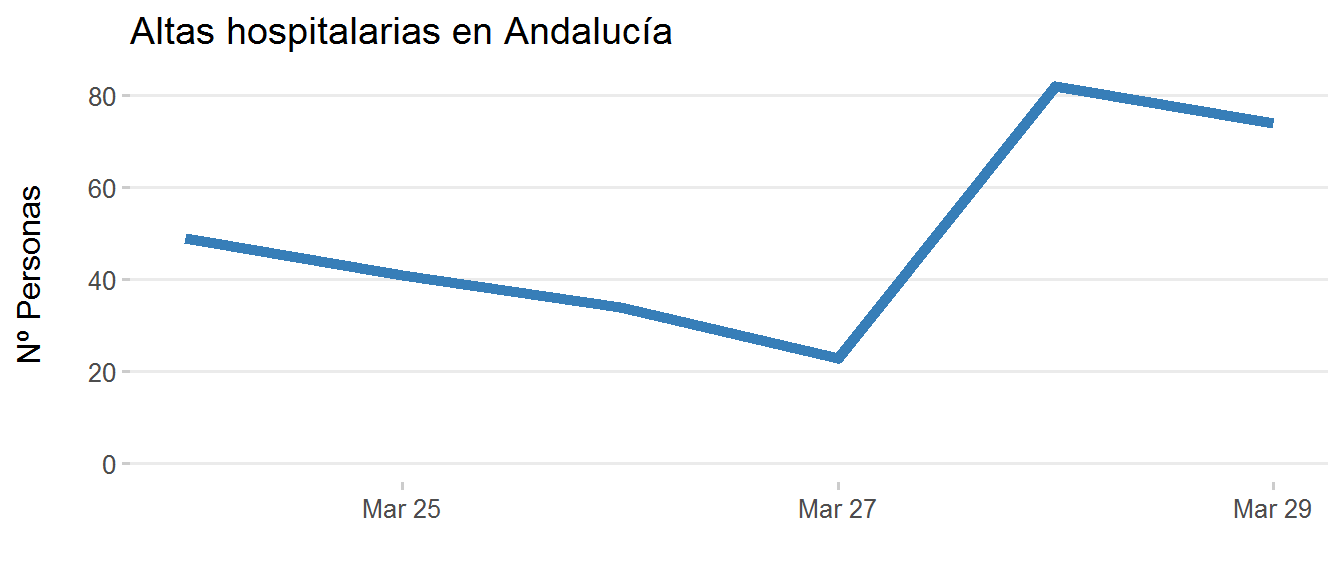
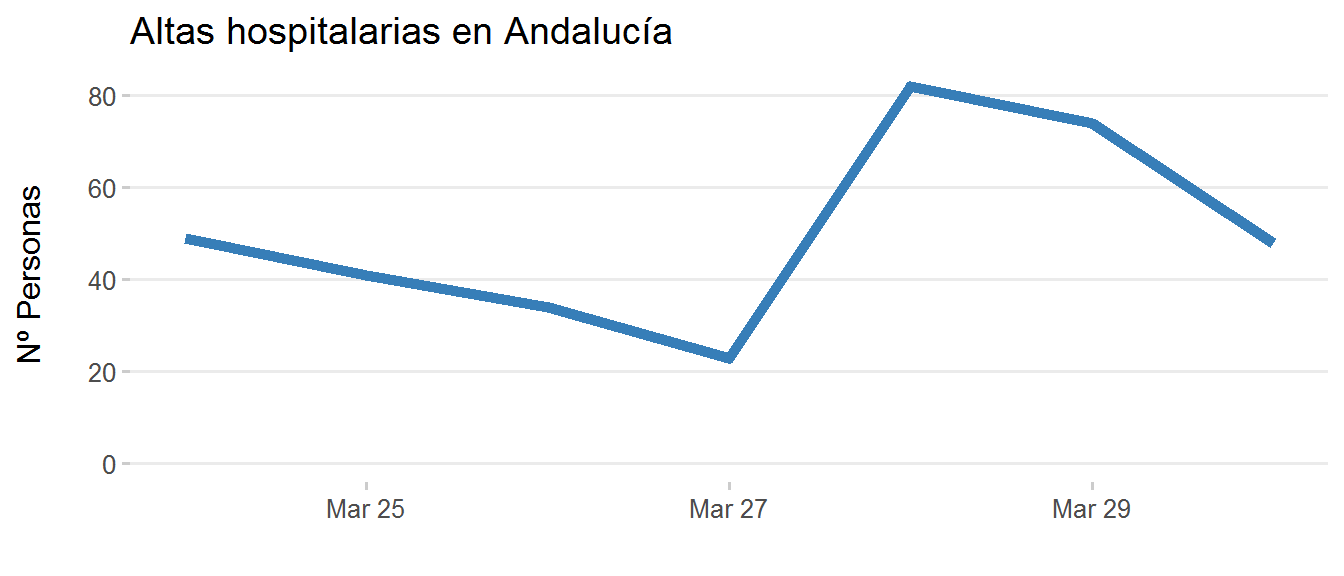
update 30 Marzo

diff --git a/evolucion-coronavirus-andalucia.html b/evolucion-coronavirus-andalucia.html
@@ -194,7 +194,7 @@ summary {
 <p><br></p>
 <p>Aquí se visualiza la evolución de la enfermedad del coronavirus (COVID-19) en Andalucía, según los <a href="https://www.juntadeandalucia.es/organismos/saludyfamilias/areas/salud-vida/paginas/Nuevo_Coronavirus.html">datos oficiales ofrecidos por la Consejería de Salud y Familias</a>. A diferencia de otras visualizaciones más extendidas, que representan datos acumulados en el tiempo, aquí se enfatizan las <strong>variaciones diarias absolutas (no acumuladas)</strong> en número de casos detectados, personas en seguimiento activo, ingresadas, dadas de alta y curadas, y número de fallecimientos.</p>
 <p>Los datos se actualizan diariamente. Tanto los datos como el código empleado para generar estas visualizaciones está disponible <a href="https://github.com/Pakillo/COVID19-Andalucia">aquí</a>.</p>
-<p>Última actualización: 2020-03-29</p>
+<p>Última actualización: 2020-03-30</p>
 <ul>
 <li><a href="#casos-detectados">Casos detectados</a></li>
 <li><a href="#personas-en-seguimiento-activo">Personas en seguimiento activo</a></li>
@@ -237,7 +237,7 @@ summary {
 <div id="altas-hospitalarias" class="section level2">
 <h2>Altas hospitalarias</h2>
 <p><br></p>
-<p>Número de personas que han recibido el alta tras estar ingresadas en centros hospitalarios por COVID-19.</p>
+<p>Número de personas que reciben el alta tras estar ingresadas en centros hospitalarios por COVID-19.</p>
 <p><br></p>
 <p><img src="evolucion-coronavirus-andalucia_files/figure-html/altas_Andalucía-1.png" width="100%" /></p>
 <p><br> <br></p>
